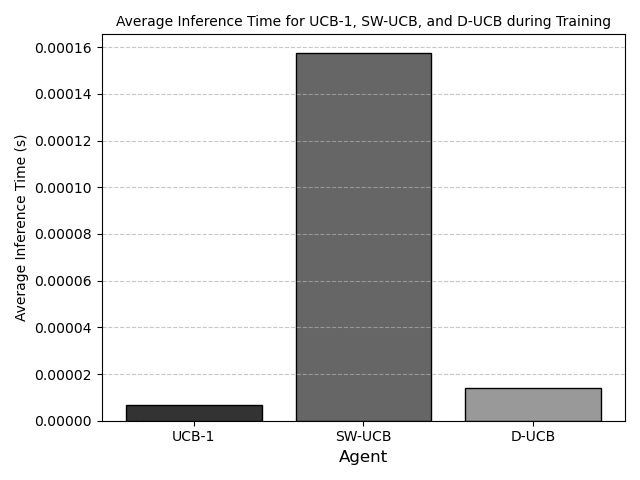
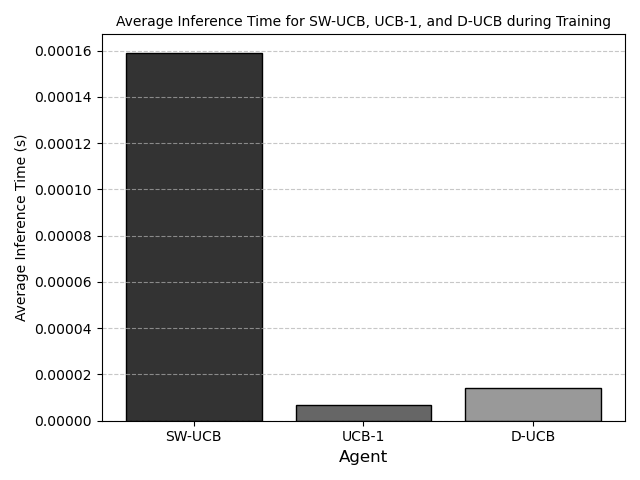
Finalised UCB

diff --git a/UCBtest.py b/UCBtest.py
@@ -83,9 +83,9 @@ def SWUCBExperiment():
 def DiscountedUCBExperiment():
     np.random.seed(0)
     env = ROFARS_v1()
-    min_gamma = 0.9
+    min_gamma = 0.99
     max_gamma = 1.0
-    gamma_step = 0.0025
+    gamma_step = 0.00025
     best_gamma = min_gamma
     best_reward = -np.inf
 
@@ -284,14 +284,14 @@ if __name__ == '__main__':
         elif inp2 == 2:
             SWUCBOpt(3)
     elif inp == 4:
-        ucb1_inference_times = timeexperiment(1)
         sw_ucb_inference_times = timeexperiment(2)
+        ucb1_inference_times = timeexperiment(1)
         d_ucb_inference_times = timeexperiment(3)
 
         # Plot the average inference times for each agent as a bar plot
-        agents = ['UCB-1', 'SW-UCB', 'D-UCB']
-        avg_inference_times = [ucb1_inference_times,
-                               sw_ucb_inference_times,
+        agents = ['SW-UCB', 'UCB-1', 'D-UCB']
+        avg_inference_times = [sw_ucb_inference_times,
+                               ucb1_inference_times,
                                d_ucb_inference_times]
 
         print(avg_inference_times)
@@ -304,18 +304,12 @@ if __name__ == '__main__':
         plt.xlabel('Agent', fontsize=12)
         plt.ylabel('Average Inference Time (s)', fontsize=10)
         plt.title(
-            'Average Inference Time for UCB-1, SW-UCB, and D-UCB during Training',
+            'Average Inference Time for SW-UCB, UCB-1, and D-UCB during Training',
             fontsize=10)
         plt.grid(axis='y', linestyle='--', alpha=0.7)
         plt.tight_layout()
         plt.savefig('UCB_AverageInferenceTime_Training_BW.png')
         plt.show()
-
-
-
-
-
-
 
 """
 Baseline:
@@ -323,7 +317,7 @@ Baseline:
 [total reward]: 0.506
 
 
-Run 1 SW-UCB best window size = 50:
+Run 1 SW-UCB best window size = 50 * 60:
 == TRAINING===
 [total reward]: 0.561                         
 ====== TESTING======
@@ -360,5 +354,12 @@ Percentage growth = (Difference / Baseline) x 100 = 0.049 / 0.506 x 100 = 9.7%
 Difference Weak Baseline = Run 3 - Baseline = 0.555 - 0.317 = 0.238
 Percentage growth = (Difference / Baseline) x 100 = 0.238 / 0.317 x 100 = 75.1%
 """
+
+"""
+Time experiment: Average inference time for each agent during training
+[6.7903322202188e-06, 0.00015759250080143964, 1.392593538319623e-05]
+UCB-1 SW-UCB D-UCB
+"""
+
 
 
